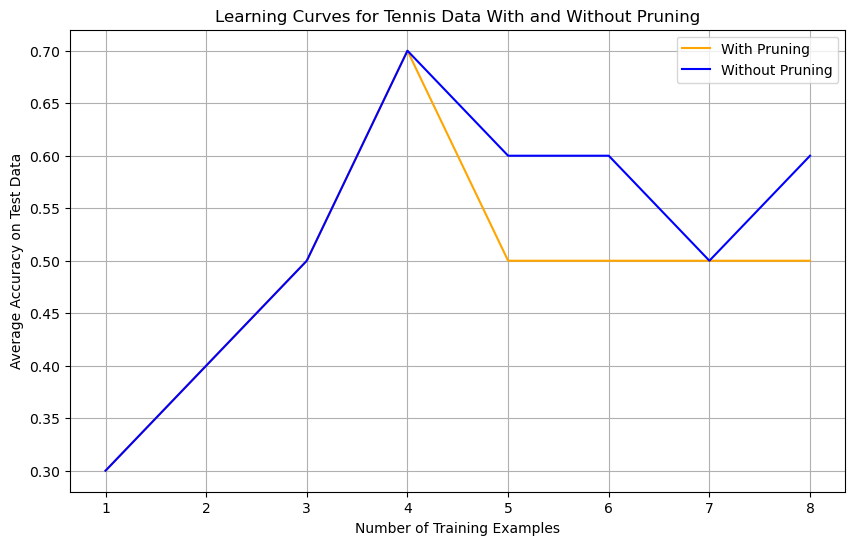
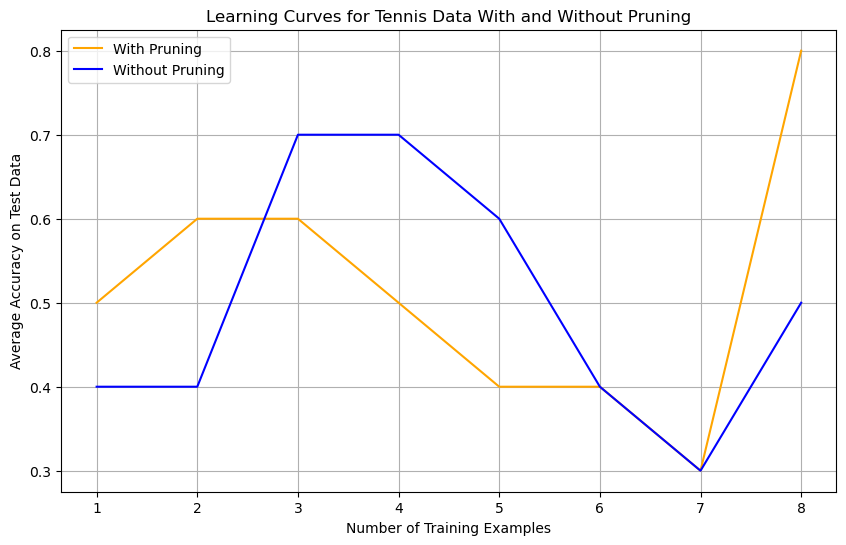
fix random forest (#13)
* fix random forest

* Update docstrings

* randomly select attributes for random forests

diff --git a/homework-1/tune_random_forests.py b/homework-1/tune_random_forests.py
@@ -1,0 +1,196 @@
+"""
+Unit Tests
+"""
+import math
+import random
+
+import matplotlib.pyplot as plt
+
+import ID3
+import parse
+from random_forest import RandomForest
+
+
+def plot_random_forest_id3_accuracies(
+    training_sizes,
+    avg_test_accuracy_id3_pruning,
+    avg_test_accuracy_id3_not_pruning,
+    avg_test_accuracy_rf,
+    dataset_name,
+):
+    """
+    Plot learning curves.
+    """
+    plt.figure(figsize=(10, 6))
+    plt.plot(
+        training_sizes,
+        avg_test_accuracy_id3_pruning,
+        label="ID3 (With Pruning)",
+        color="orange",
+    )
+    plt.plot(
+        training_sizes,
+        avg_test_accuracy_id3_not_pruning,
+        label="ID3 (Without Pruning)",
+        color="blue",
+    )
+    plt.plot(
+        training_sizes,
+        avg_test_accuracy_rf,
+        label="Random Forest",
+        color="green",
+    )
+    plt.xlabel("Number of Training Examples")
+    plt.ylabel("Average Accuracy on Test Data")
+    plt.title(
+        f"Learning Curves for {dataset_name} Data - ID3 (With and Without Pruning) vs Random Forest"
+    )
+    plt.legend()
+    plt.grid(True)
+    plt.savefig(f"images/id3_vs_rf_{dataset_name}.png", bbox_inches="tight")
+    print(f"Saved image as images/id3_vs_rf_{dataset_name}.png")
+
+
+def plot_num_trees_accuracies(accuracies_dict):
+    """
+    Plot number of trees against the accuracies.
+    """
+    trees = list(accuracies_dict.keys())
+    accuracy = list(accuracies_dict.values())
+
+    plt.figure(figsize=(10, 6))
+    plt.plot(trees, accuracy, marker="o", linestyle="-")
+    plt.title("Random Forest Accuracy vs. Number of Trees")
+    plt.xlabel("Number of Trees")
+    plt.ylabel("Average Accuracy on Test Data")
+    plt.grid(True)
+    plt.savefig("images/rf_num_trees_accuracies.png", bbox_inches="tight")
+
+
+def get_best_num_trees_for_random_forest(filename):
+    """
+    Find the best number of trees for random forest.
+    """
+    data = parse.parse(filename)
+    num_trees_accuracies = {}
+
+    for num_trees in range(2, 15):
+        accuracies = []
+        for _ in range(25):
+            random.shuffle(data)
+            train = data[: len(data) // 2]
+            valid = data[len(data) // 2 : 3 * len(data) // 4]
+            test = data[3 * len(data) // 4 :]
+
+            random_forest = RandomForest(num_trees)
+            random_forest.fit(train + valid)
+            acc = random_forest.test(test)
+            accuracies.append(acc)
+        num_trees_accuracies[num_trees] = sum(accuracies) / len(accuracies)
+    plot_num_trees_accuracies(num_trees_accuracies)
+    return max(num_trees_accuracies, key=lambda key: num_trees_accuracies[key])
+
+
+def learning_curves_random_forest_id3(filename, training_sizes, num_trees):
+    """
+    Plot learning curves of RF and ID3 (with and without pruning)
+    """
+    data = parse.parse(filename)
+    avg_test_accuracy_id3_pruning = []
+    avg_test_accuracy_id3_not_pruning = []
+    avg_test_accuracy_rf = []
+
+    for train_size in training_sizes:
+        with_pruning_acc = []
+        without_pruning = []
+        rf_acc = []
+
+        for _ in range(25):
+            random.shuffle(data)
+            validation_size = max(
+                1, math.ceil((int(train_size / 0.8) - train_size) // 2)
+            )
+            test_size = validation_size
+            train = data[:train_size]
+            valid = data[train_size : train_size + validation_size]
+            test = data[
+                train_size + validation_size : train_size + validation_size + test_size
+            ]
+
+            tree = ID3.ID3(train, 0)
+            ID3.prune(tree, valid)
+            acc = ID3.test(tree, test)
+            with_pruning_acc.append(acc)
+
+            tree = ID3.ID3(train + valid, 0)
+            acc = ID3.test(tree, test)
+            without_pruning.append(acc)
+
+            random_forest = RandomForest(num_trees)
+            random_forest.fit(train + valid)
+            acc = random_forest.test(test)
+            rf_acc.append(acc)
+
+        avg_test_accuracy_id3_pruning.append(
+            sum(with_pruning_acc) / len(with_pruning_acc)
+        )
+        avg_test_accuracy_id3_not_pruning.append(
+            sum(without_pruning) / len(without_pruning)
+        )
+        avg_test_accuracy_rf.append(sum(rf_acc) / len(rf_acc))
+    plot_random_forest_id3_accuracies(
+        training_sizes,
+        avg_test_accuracy_id3_pruning,
+        avg_test_accuracy_id3_not_pruning,
+        avg_test_accuracy_rf,
+        "Candy",
+    )
+
+
+def compare_accuracies_id3_rf(filename, num_trees):
+    """
+    Compare the accuracies of the best RF against ID3 (with and
+    without pruning).
+    """
+    data = parse.parse(filename)
+    with_pruning_acc = []
+    without_pruning = []
+    rf_acc = []
+
+    for _ in range(25):
+        random.shuffle(data)
+        train = data[: len(data) // 2]
+        valid = data[len(data) // 2 : 3 * len(data) // 4]
+        test = data[3 * len(data) // 4 :]
+
+        tree = ID3.ID3(train, 0)
+        ID3.prune(tree, valid)
+        acc = ID3.test(tree, test)
+        with_pruning_acc.append(acc)
+
+        tree = ID3.ID3(train + valid, 0)
+        acc = ID3.test(tree, test)
+        without_pruning.append(acc)
+
+        random_forest = RandomForest(num_trees)
+        random_forest.fit(train + valid)
+        acc = random_forest.test(test)
+        rf_acc.append(acc)
+    print(
+        "Avg accuracy of ID3 with pruning: ",
+        sum(with_pruning_acc) / len(with_pruning_acc),
+    )
+    print(
+        "Avg accuracy of ID3 without pruning: ",
+        sum(without_pruning) / len(without_pruning),
+    )
+    print(
+        "Avg accuracy of RF: ",
+        sum(rf_acc) / len(rf_acc),
+    )
+
+
+if __name__ == "__main__":
+    best_num_trees = get_best_num_trees_for_random_forest("candy.data")
+    learning_curves_random_forest_id3("candy.data", range(5, 68, 4), best_num_trees)
+    compare_accuracies_id3_rf("candy.data", best_num_trees)

diff --git a/homework-1/unit_tests.py b/homework-1/unit_tests.py
@@ -5,7 +5,6 @@ import random
 
 import ID3
 import parse
-from random_forest import RandomForest
 
 
 def testID3AndEvaluate():
@@ -92,7 +91,6 @@ def testID3AndTest():
         print("testID3andTest failed -- no tree returned.")
 
 
-# inFile - string location of the house data file
 def testPruningOnHouseData(inFile):
     """
     Test pruning of ID3 on house data.
@@ -149,24 +147,11 @@ def testPruningCandyData(inFile):
         test = data[3 * len(data) // 4 :]
 
         tree = ID3.ID3(train, 0)
-        acc = ID3.test(tree, train)
-        print("training accuracy: ", acc)
-        acc = ID3.test(tree, valid)
-        print("validation accuracy: ", acc)
-        acc = ID3.test(tree, test)
-        print("test accuracy: ", acc)
-
         ID3.prune(tree, valid)
-        acc = ID3.test(tree, train)
-        print("pruned tree train accuracy: ", acc)
-        acc = ID3.test(tree, valid)
-        print("pruned tree validation accuracy: ", acc)
         acc = ID3.test(tree, test)
-        print("pruned tree test accuracy: ", acc)
         withPruning.append(acc)
-        tree = ID3.ID3(train + valid, "democrat")
+        tree = ID3.ID3(train + valid, 0)
         acc = ID3.test(tree, test)
-        print("no pruning test accuracy: ", acc)
         withoutPruning.append(acc)
 
     print(
@@ -191,24 +176,11 @@ def testPruningTennisData(inFile):
         test = data[3 * len(data) // 4 :]
 
         tree = ID3.ID3(train, 0)
-        acc = ID3.test(tree, train)
-        print("training accuracy: ", acc)
-        acc = ID3.test(tree, valid)
-        print("validation accuracy: ", acc)
-        acc = ID3.test(tree, test)
-        print("test accuracy: ", acc)
-
         ID3.prune(tree, valid)
-        acc = ID3.test(tree, train)
-        print("pruned tree train accuracy: ", acc)
-        acc = ID3.test(tree, valid)
-        print("pruned tree validation accuracy: ", acc)
         acc = ID3.test(tree, test)
-        print("pruned tree test accuracy: ", acc)
         withPruning.append(acc)
-        tree = ID3.ID3(train + valid, "democrat")
+        tree = ID3.ID3(train + valid, 0)
         acc = ID3.test(tree, test)
-        print("no pruning test accuracy: ", acc)
         withoutPruning.append(acc)
 
     print(
@@ -219,32 +191,15 @@ def testPruningTennisData(inFile):
     )
 
 
-def testRandomForestOnHouseData(inFile):
-    """
-    Test the Random Forest algorithm on a dataset of house data.
-    """
-    print("\nRandom Forest on House Data:")
-    data = parse.parse(inFile)
-    train = data[: len(data) // 2]
-    valid = data[len(data) // 2 : 3 * len(data) // 4]
-    test = data[3 * len(data) // 4 :]
-    random_forest = RandomForest(num_trees=5)
-    random_forest.fit(train, "democrat")
-    acc = random_forest.test(train)
-    print("training accuracy: ", acc)
-    acc = random_forest.test(valid)
-    print("validation accuracy: ", acc)
-    acc = random_forest.test(test)
-    print("testing accuracy: ", acc)
-
-
 if __name__ == "__main__":
     testID3AndEvaluate()
     testPruning()
     testID3AndTest()
-    testPruningOnHouseData(inFile="house_votes_84.data")
+    print("\nTest Pruning on House Votes Data:")
+    testPruningOnHouseData("house_votes_84.data")
 
     # additional tests
-    testRandomForestOnHouseData(inFile="house_votes_84.data")
+    print("\nTest Pruning on Candy Data:")
     testPruningCandyData("candy.data")
+    print("\nTest Pruning on Tennis Data:")
     testPruningTennisData("tennis.data")

diff --git a/homework-1/random_forest.py b/homework-1/random_forest.py
@@ -21,7 +21,7 @@ class RandomForest:
         self.random_forest_nodes = []
         self.num_trees = num_trees
 
-    def fit(self, examples, default):
+    def fit(self, examples):
         """
         Fits the random forest to a dataset using bootstrapped samples and
         creates decision trees.
@@ -30,8 +30,19 @@ class RandomForest:
             # create a bootstrapped sample by randomly selecting an example n
             # times; with replacement, i.e., can select one example more than
             # once; n = len(examples)
-            bootstrap_sample = [random.choice(examples) for _ in range(len(examples))]
-            random_forest_node = ID3.ID3(bootstrap_sample, default)
+            bootstrap_sample = [
+                random.choice(examples) for _ in range(len(examples) + 1)
+            ]
+            available_attributes = [
+                attribute for attribute in examples[0].keys() if attribute != "Class"
+            ]
+            subset_attributes = set(
+                random.sample(
+                    available_attributes,
+                    random.randint(2, len(available_attributes)),
+                )
+            )
+            random_forest_node = ID3.ID3_helper(bootstrap_sample, subset_attributes)
             self.random_forest_nodes.append(random_forest_node)
 
     def test(self, examples):

diff --git a/homework-1/ID3.py b/homework-1/ID3.py
@@ -117,7 +117,7 @@ def ID3_helper(examples, attributes, missing_values="keep"):
 
 def prune(node, examples):
     """
-    Takes in a trained tree and a validation set of examples.  Prunes nodes in
+    Takes in a trained tree and a validation set of examples. Prunes nodes in
     order to improve accuracy on the validation data; the precise pruning
     strategy is up to you.
     """
@@ -149,7 +149,7 @@ def accuracy_based_pruning(node, examples):
 
 def test(node, examples):
     """
-    Takes in a trained tree and a test set of examples.  Returns the accuracy
+    Takes in a trained tree and a test set of examples. Returns the accuracy
     (fraction of examples the tree classifies correctly).
     """
     # compare predicted class label with ground truth

diff --git a/homework-1/plot_learning_curves.py b/homework-1/plot_learning_curves.py
@@ -5,8 +5,9 @@ tennis data.
 import math
 import random
 
-import ID3
 import matplotlib.pyplot as plt
+
+import ID3
 import parse
 
 
@@ -51,13 +52,13 @@ def plot_learning_curve(
 def calculate_accuracy_for_plot(
     dataset_filename, training_sizes, loop_size, dataset_name
 ):
+    data = parse.parse(dataset_filename)
     avg_test_accuracy_with_pruning = []
     avg_test_accuracy_without_pruning = []
 
     for train_size in training_sizes:
         with_pruning = []
         without_pruning = []
-        data = parse.parse(dataset_filename)
 
         for _ in range(loop_size):
             random.shuffle(data)
